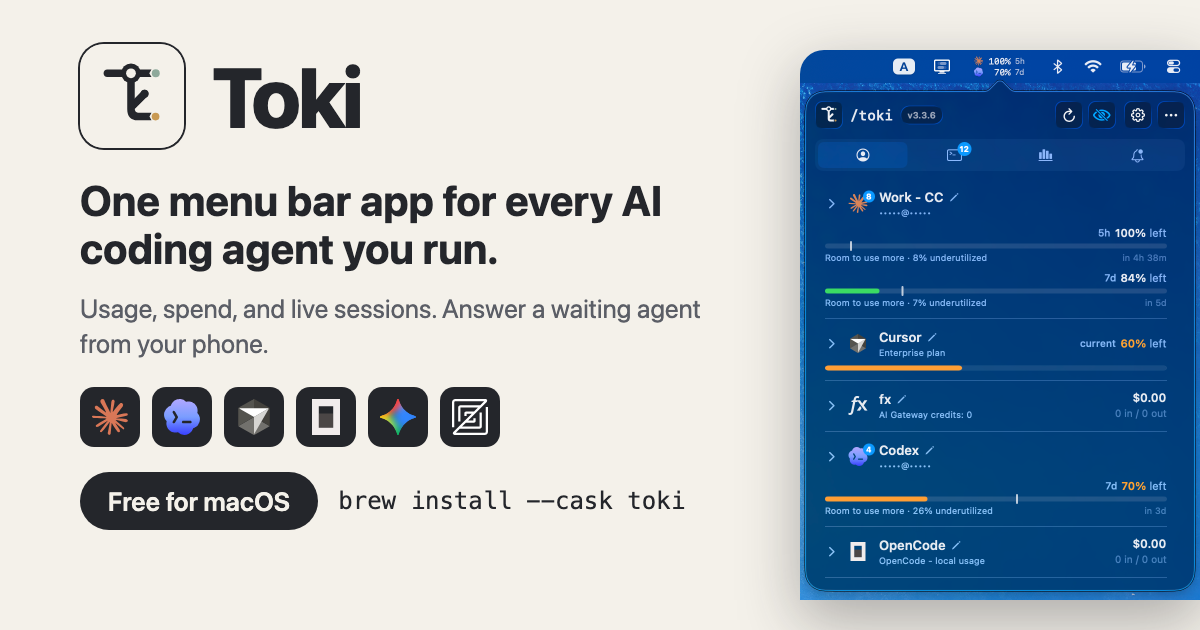
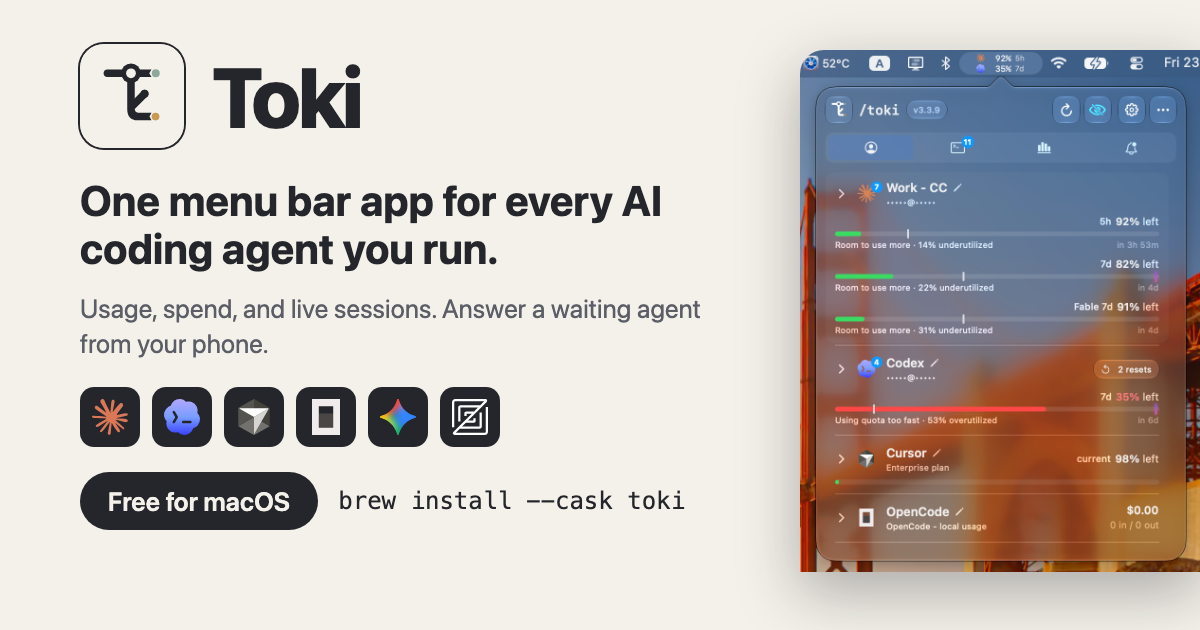
docs: add a download button and light and dark screenshots
Add a Download for macOS button under the badges that opens the latest
release. Replace the menu bar and widget screenshots with one light and
one dark screenshot that the README picks by color scheme. Render
docs/og.png and a dark docs/og-dark.png from them.

Changed region(s): [[0.6475, 0.0603, 1.0, 0.9952]]

diff --git a/README.md b/README.md
@@ -18,9 +18,16 @@
   <a href="https://github.com/aashutoshrathi/toki"><img alt="Contribute on GitHub" src="https://img.shields.io/badge/contribute-GitHub-24292e?logo=github"></a>
 </p>
 
-| Menu bar | Widget |
-|:---:|:---:|
-| ![Toki menu bar popover preview](https://files.aashutosh.dev/toki-preview.png) | ![Toki macOS widgets preview](https://files.aashutosh.dev/toki-widgets.png) |
+<p align="center">
+  <a href="https://github.com/aashutoshrathi/toki/releases/latest"><img alt="Download for macOS" src="https://img.shields.io/badge/Download_for_macOS-24292e?style=for-the-badge&logo=apple&logoColor=white"></a>
+</p>
+
+<p align="center">
+  <picture>
+    <source media="(prefers-color-scheme: dark)" srcset="docs/screenshot-dark.png">
+    <img src="docs/screenshot.png" alt="Toki menu bar popover with quota bars for Claude Code, Codex, Cursor, and OpenCode" width="420">
+  </picture>
+</p>
 
 ## What Toki does
 

diff --git a/docs/development.md b/docs/development.md
@@ -75,7 +75,7 @@ The channel picker and the installed cask are kept in agreement in both directio
 
 ## Website
 
-GitHub Pages builds [toki.aashutosh.dev](https://toki.aashutosh.dev) from `README.md` with the settings in `_config.yml`. `docs/og.png` is the link preview image. It uses the menu bar screenshot from the README, so run `scripts/build-og-image.sh` again after that screenshot changes. The script needs Google Chrome.
+GitHub Pages builds [toki.aashutosh.dev](https://toki.aashutosh.dev) from `README.md` with the settings in `_config.yml`. `docs/og.png` is the link preview image, and `docs/og-dark.png` is its dark variant. They use `docs/screenshot.png` and `docs/screenshot-dark.png`, the light and dark screenshots in the README, so run `scripts/build-og-image.sh` again after either screenshot changes. The script needs Google Chrome.
 
 ## Concurrency checking
 
